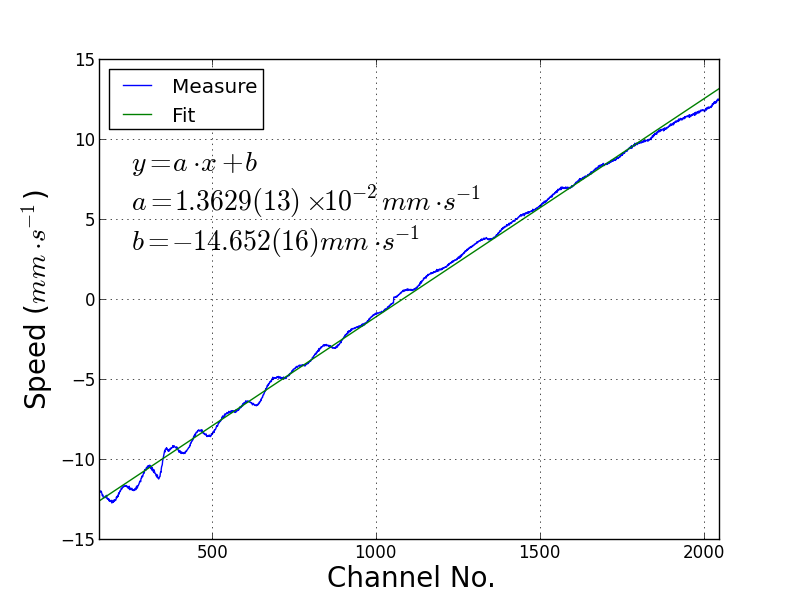
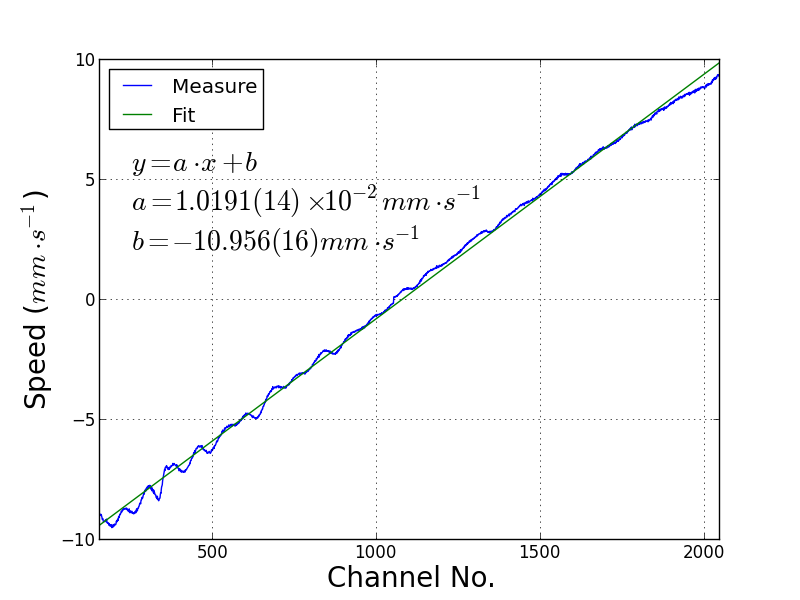
[mossbauer] taking into account extra counts

diff --git a/mossbauer/pos_cal_1/pos_cal.py b/mossbauer/pos_cal_1/pos_cal.py
@@ -1,2 +1,2 @@
-peaks_v = [-0.0073959166312620424, -0.0044749729172429715, -0.0015659944315204333, 0.00069978056998604328, 0.0038163776480653056, 0.0070268367629064583]
-peaks_cov = [[2.6988722201432811e-10, 2.6988664756832816e-10, 2.6988607547546401e-10, 2.6988562987790582e-10, 2.6988501695383045e-10, 2.6988438557042245e-10], [2.6988664756832816e-10, 2.6988607312385141e-10, 2.6988550103250436e-10, 2.698850554361278e-10, 2.6988444251367779e-10, 2.6988381113194401e-10], [2.6988607547546401e-10, 2.6988550103250436e-10, 2.6988492894266816e-10, 2.6988448334746837e-10, 2.6988387042663699e-10, 2.698832390465707e-10], [2.6988562987790582e-10, 2.698850554361278e-10, 2.6988448334746837e-10, 2.698840377531852e-10, 2.6988342483361459e-10, 2.6988279345484703e-10], [2.6988501695383045e-10, 2.6988444251367779e-10, 2.6988387042663699e-10, 2.6988342483361459e-10, 2.6988281191577817e-10, 2.6988218053879706e-10], [2.6988438557042245e-10, 2.6988381113194401e-10, 2.698832390465707e-10, 2.6988279345484703e-10, 2.6988218053879706e-10, 2.6988154916365617e-10]]
+peaks_cov = [[6.3780417250238781e-19, 6.3780417244750651e-19, 6.3780417239284996e-19, 6.3780417235027853e-19, 6.3780417229172112e-19, 6.3780417223140012e-19], [6.3780417244750651e-19, 6.3780417239262521e-19, 6.3780417233796866e-19, 6.3780417229539723e-19, 6.3780417223683982e-19, 6.3780417217651882e-19], [6.3780417239284996e-19, 6.3780417233796866e-19, 6.3780417228331212e-19, 6.3780417224074069e-19, 6.3780417218218327e-19, 6.3780417212186228e-19], [6.3780417235027853e-19, 6.3780417229539723e-19, 6.3780417224074069e-19, 6.3780417219816926e-19, 6.3780417213961184e-19, 6.3780417207929085e-19], [6.3780417229172112e-19, 6.3780417223683982e-19, 6.3780417218218327e-19, 6.3780417213961184e-19, 6.3780417208105442e-19, 6.3780417202073343e-19], [6.3780417223140012e-19, 6.3780417217651882e-19, 6.3780417212186228e-19, 6.3780417207929085e-19, 6.3780417202073343e-19, 6.3780417196041244e-19]]
+peaks_e = [-2.6563340903984221e-07, -1.607241361190653e-07, -5.6244609035188789e-08, 2.5133476707878322e-08, 1.3706987995970033e-07, 2.5237745328381529e-07]

diff --git a/mossbauer/fit_v.py b/mossbauer/fit_v.py
@@ -4,13 +4,16 @@ import jlab
 from pylab import *
 
 wavelength = 632.8e-9
+extra_fix = jlab.load_pyfile('extra_count/res.py')
+r_0 = 1 / (1 + extra_fix.extra_rate)
+rel_s = extra_fix.extra_unc / (1 + extra_fix.extra_rate)
 
 def read_cal_file(fname):
     f = jlab.load_pyfile(fname)
     index, data = array([(d[0], d[2]) for d in f.data]).T
     passes = int(f.elapsed_passes)
     c_time = float(f.mossbauer_dwell_time.split()[0]) * 1e-3
-    return index, wavelength * data / 2 / passes / c_time
+    return index, wavelength * data / 2 / passes / c_time * r_0
 
 def fit_v(iname, fig_name):
     index, data = read_cal_file(iname)
@@ -36,6 +39,10 @@ def fit_v(iname, fig_name):
     min_i = data.argmin()
     data[:min_i] = -data[:min_i]
     fit = jlab.fitlin(index, data)
+    rel_cov = jlab.abs2relcov(fit.a, fit.cov) + rel_s**2
+    abs_cov = array(jlab.rel2abscov(fit.a, rel_cov))
+    fit.cov = abs_cov
+    fit.s = sqrt([abs_cov[0, 0], abs_cov[1, 1]])
 
     fig2 = figure()
     plot(index, data * 1000, label="Measure")

diff --git a/mossbauer/calib.py b/mossbauer/calib.py
@@ -3,14 +3,25 @@
 import jlab
 from pylab import *
 
+extra_fix = jlab.load_pyfile('extra_count/res.py')
+
+E_0 = 14.4e3
+c_0 = 299792458
+r_0 = E_0 / c_0
+
 def calib(v_fit, iname):
-    v_fit = jlab.load_pyfile(v_fit)
+    v_a, v_cov = jlab.load_pyfile(v_fit)['a', 'cov']
+    v_a = array(v_a)
+    v_cov = array(v_cov)
+    v_a *= r_0
+    v_cov *= r_0**2
+
     peaks = array(jlab.load_pyfile(iname).peaks).T
-    peaks_v = v_fit.a[0] + peaks[0] * v_fit.a[1]
-    peaks_2 = repeat([peaks_v], len(peaks_v), axis=0)
-    peaks_cov = (v_fit.cov[0][0] + v_fit.cov[0][1] * (peaks_2 + peaks_2.T) +
-                 v_fit.cov[1][1] * peaks_2 * peaks_2.T)
-    return jlab.Ret('peaks_v', 'peaks_cov')
+    peaks_e = v_a[0] + peaks[0] * v_a[1]
+    peaks_2 = repeat([peaks_e], len(peaks_e), axis=0)
+    peaks_cov = (v_cov[0, 0] + v_cov[0, 1] * (peaks_2 + peaks_2.T) +
+                 v_cov[1, 1] * peaks_2 * peaks_2.T)
+    return jlab.Ret('peaks_e', 'peaks_cov')
 
 if __name__ == '__main__':
     import sys

diff --git a/mossbauer/pos_cal_1/res_v.py b/mossbauer/pos_cal_1/res_v.py
@@ -1,4 +1,4 @@
+cov = [[2.7644184163131148e-10, -2.2673946227569438e-13], [-2.2673946227569438e-13, 2.0845536031182576e-16]]
+s = [1.6626540278461767e-05, 1.4437983249464786e-08]
+a = [-0.010955795663765878, 1.0191035939306345e-05]
 start = 156
-cov = [[2.6988431299527262e-10, -1.9666320176652525e-13], [-1.9666320176652525e-13, 1.7854126351931479e-16]]
-s = [1.6428156104544194e-05, 1.3361933375051486e-08]
-a = [-0.014651936370209881, 1.3629170779725269e-05]
